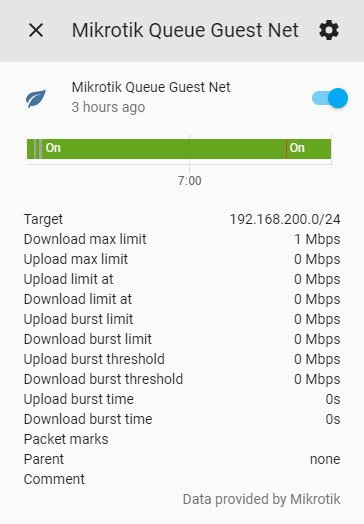
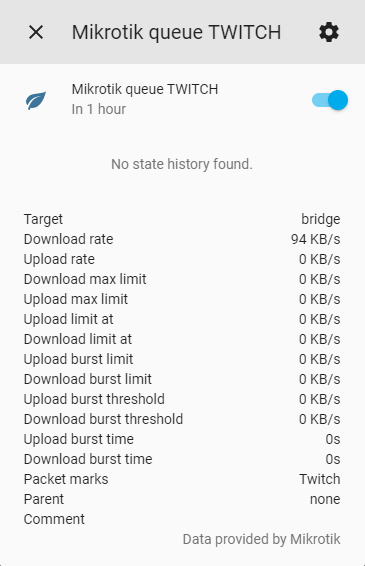
added download and upload rate attributes for queue switches #40

diff --git a/custom_components/mikrotik_router/mikrotik_controller.py b/custom_components/mikrotik_router/mikrotik_controller.py
@@ -740,6 +740,7 @@ class MikrotikControllerData:
                 {"name": ".id"},
                 {"name": "name", "default": "unknown"},
                 {"name": "target", "default": "unknown"},
+                {"name": "rate", "default": "0/0"},
                 {"name": "max-limit", "default": "0/0"},
                 {"name": "limit-at", "default": "0/0"},
                 {"name": "burst-limit", "default": "0/0"},
@@ -768,6 +769,16 @@ class MikrotikControllerData:
             self.data["queue"][uid][
                 "download-max-limit"
             ] = f"{round(download_max_limit_bps * uom_div)} {uom_type}"
+
+            upload_rate_bps, download_rate_bps = [
+                int(x) for x in vals["rate"].split("/")
+            ]
+            self.data["queue"][uid][
+                "upload-rate"
+            ] = f"{round(upload_rate_bps * uom_div)} {uom_type}"
+            self.data["queue"][uid][
+                "download-rate"
+            ] = f"{round(download_rate_bps * uom_div)} {uom_type}"
 
             upload_limit_at_bps, download_limit_at_bps = [
                 int(x) for x in vals["limit-at"].split("/")

diff --git a/custom_components/mikrotik_router/switch.py b/custom_components/mikrotik_router/switch.py
@@ -44,6 +44,8 @@ DEVICE_ATTRIBUTES_SCRIPT = [
 
 DEVICE_ATTRIBUTES_QUEUE = [
     "target",
+    "download-rate",
+    "upload-rate",
     "download-max-limit",
     "upload-max-limit",
     "upload-limit-at",
